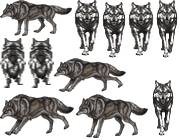
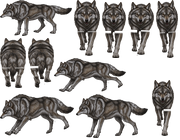
feat(wolf): rigged front/rear walk and attack frames from new HD views
Claude-Session: https://claude.ai/code/session_01DrFoPcc44FDsca7BfrWMBD

Changed region(s): [[0.3889, 0.0, 1.0, 0.4286], [0.0, 0.2571, 0.3056, 0.6286], [0.8333, 0.5714, 0.9722, 0.9714]]

diff --git a/tools/wolf_rig/build_fb_frames.py b/tools/wolf_rig/build_fb_frames.py
@@ -1,0 +1,129 @@
+"""Front/rear wolf frames: animate legs (vertical swing + perspective scale), body bob and sway."""
+import sys
+sys.path.insert(0, 'tools/wolf_rig')
+import numpy as np
+from PIL import Image, ImageDraw, ImageFilter
+import build_side_frames as B
+
+SRC = 'tools/wolf_rig/src/'
+R, HD = B.R, B.HD
+fullF = Image.open(SRC + 'front_full.png').convert('RGBA')
+fullR = Image.open(SRC + 'rear_full.png').convert('RGBA')
+SZ = fullF.size
+
+
+def mask(poly, blur=4):
+    m = Image.new('L', SZ, 0)
+    ImageDraw.Draw(m).polygon(poly, fill=255)
+    return m.filter(ImageFilter.GaussianBlur(blur))
+
+
+def cutlayer(full, m):
+    a = np.minimum(np.asarray(full)[:, :, 3], np.asarray(m))
+    out = full.copy(); out.putalpha(Image.fromarray(a.astype(np.uint8))); return out
+
+
+def rest(full, ms):
+    inv = np.ones(SZ[::-1])
+    for m in ms:
+        inv = np.minimum(inv, 1 - np.asarray(m) / 255.0)
+    a = (np.asarray(full)[:, :, 3] * inv).astype(np.uint8)
+    out = full.copy(); out.putalpha(Image.fromarray(a)); return out
+
+TOP = 700
+FRONT = {
+ 'L': [(0, TOP), (385, TOP), (385, 1010), (415, 1120), (415, 1300), (0, 1300)],
+ 'R': [(462, TOP), (900, TOP), (900, 1300), (415, 1300), (415, 1120), (462, 1010)],
+}
+REAR = {
+ 'L': [(0, 740), (385, 740), (385, 1300), (0, 1300)],
+ 'R': [(495, 740), (900, 740), (900, 1300), (495, 1300)],
+}
+PARTS = {}
+for name, full, polys in (('front', fullF, FRONT), ('rear', fullR, REAR)):
+    ms = {k: mask(p) for k, p in polys.items()}
+    PARTS[name] = (rest(full, ms.values()), {k: cutlayer(full, m) for k, m in ms.items()}, polys)
+
+
+def leg(layer, top, dy, sc):
+    bb = layer.getchannel('A').getbbox()
+    crop = layer.crop(bb)
+    h = max(int(crop.height * sc), 1)
+    crop = crop.resize((crop.width, h), Image.LANCZOS)
+    # soften the cut edge at the top where the leg blends into the body
+    a = np.asarray(crop.getchannel('A')).astype(np.float64)
+    f = np.clip(np.arange(h)[:, None] / 40.0, 0, 1)
+    crop.putalpha(Image.fromarray((a * f).astype(np.uint8)))
+    out = Image.new('RGBA', layer.size, (0, 0, 0, 0))
+    out.alpha_composite(crop, (bb[0], bb[1] + dy))
+    return out
+
+
+def render(view, dyL=0, scL=1.0, dyR=0, scR=1.0, bob=0, rot=0, grow=1.0):
+    base, legs, _ = PARTS[view]
+    c = Image.new('RGBA', (SZ[0] + 200, SZ[1] + 300), (0, 0, 0, 0))
+    ox, oy = 100, 150
+    c.alpha_composite(base, (ox, oy + bob))
+    for k, (dy, sc) in (('L', (dyL, scL)), ('R', (dyR, scR))):
+        c.alpha_composite(leg(legs[k], TOP, dy, sc), (ox, oy + bob))
+    if rot:
+        c = c.rotate(rot, resample=Image.BICUBIC, center=(ox + 450, oy + 900))
+    if grow != 1.0:
+        c = c.resize((int(c.width * grow), int(c.height * grow)), Image.LANCZOS)
+    return c
+
+# sheet -> frame -> (rect, view, kwargs)
+RECTS = {
+ '270': {1: (76, 2, 26, 52), 2: (104, 0, 22, 54), 3: (128, 0, 22, 56), 4: (152, 0, 22, 56),
+         5: (0, 46, 24, 46), 6: (26, 44, 24, 56), 7: (52, 44, 22, 52), 9: (152, 58, 22, 54)},
+ '271': {1: (74, 0, 26, 56), 2: (102, 2, 24, 56), 3: (128, 2, 26, 56), 4: (156, 0, 22, 58),
+         10: (152, 80, 22, 56), 5: (0, 38, 26, 50), 6: (28, 38, 26, 50)},
+}
+WALK_F = [dict(dyL=60, scL=1.10, dyR=-50, scR=0.88, bob=-10, rot=2),
+          dict(dyL=0, scL=1.0, dyR=0, scR=1.0, bob=25, rot=0),
+          dict(dyL=-50, scL=0.88, dyR=60, scR=1.10, bob=-10, rot=-2),
+          dict(dyL=0, scL=1.0, dyR=0, scR=1.0, bob=0, rot=0)]
+WALK_R = [dict(dyL=-45, scL=0.88, dyR=40, scR=1.06, bob=-8, rot=-2),
+          dict(dyL=0, scL=1.0, dyR=0, scR=1.0, bob=22, rot=0),
+          dict(dyL=40, scL=1.06, dyR=-45, scR=0.88, bob=-8, rot=2),
+          dict(dyL=0, scL=1.0, dyR=0, scR=1.0, bob=0, rot=0)]
+ATK_F = [dict(dyL=0, scL=0.96, dyR=0, scR=0.96, bob=45, rot=0),      # crouch
+         dict(dyL=40, scL=1.08, dyR=40, scR=1.08, bob=-30, rot=0),   # leap
+         dict(dyL=50, scL=1.10, dyR=20, scR=1.05, bob=-10, rot=-3),  # bite
+         dict(dyL=0, scL=1.0, dyR=0, scR=1.0, bob=15, rot=3),        # recoil
+         dict(dyL=-20, scL=0.94, dyR=30, scR=1.06, bob=0, rot=0)]
+ATK_R = [dict(dyL=0, scL=0.96, dyR=0, scR=0.96, bob=40, rot=0),
+         dict(dyL=40, scL=1.06, dyR=-35, scR=0.9, bob=-20, rot=2)]
+PLAN = {
+ '270': {1: ('front', WALK_F[0]), 2: ('front', WALK_F[1]), 3: ('front', WALK_F[2]), 4: ('front', WALK_F[3]),
+         5: ('rear', WALK_R[0]), 6: ('rear', WALK_R[1]), 7: ('rear', WALK_R[2]), 9: ('rear', WALK_R[3])},
+ '271': {1: ('front', ATK_F[0]), 2: ('front', ATK_F[1]), 3: ('front', ATK_F[2]), 4: ('front', ATK_F[3]),
+         10: ('front', ATK_F[4]), 5: ('rear', ATK_R[0]), 6: ('rear', ATK_R[1])},
+}
+
+
+def main():
+    cache = {}
+    for n, frames in PLAN.items():
+        o = Image.open(R + n + '.png').convert('RGBA')
+        o2 = o.resize((o.width * 2, o.height * 2), Image.NEAREST)
+        for k, (view, kw) in frames.items():
+            rect = RECTS[n][k]
+            cache[(n, k)] = (rect, B.fit_img(render(view, **kw), rect, o2))
+    for n in PLAN:
+        for suf in B.SUFFIXES:
+            path = f'{HD}{n}{suf}.png'
+            sheet = Image.open(path).convert('RGBA')
+            for (nn, k), (rect, fr) in cache.items():
+                if nn != n:
+                    continue
+                x, y, w, h = rect
+                t = B.tone(fr, *B.TONE[suf]) if suf else fr
+                sheet.paste(Image.new('RGBA', (w, h), (0, 0, 0, 0)), (x, y))
+                sheet.alpha_composite(t, (x, y))
+            sheet.save(path)
+            print('wrote', path)
+
+
+if __name__ == '__main__':
+    main()

diff --git a/tools/wolf_rig/build_side_frames.py b/tools/wolf_rig/build_side_frames.py
@@ -47,8 +47,11 @@ def tone(im, tint, darken):
 
 
 def frame(pose, bob, tail, tilt, rect, orig2x):
+    return fit_img(rig.render(pose, bob, tail, tilt), rect, orig2x)
+
+
+def fit_img(img, rect, orig2x):
     x, y, w, h = rect
-    img = rig.render(pose, bob, tail, tilt)
     bb = img.getchannel('A').point(lambda v: 255 if v > THR else 0).getbbox()
     img = img.crop(bb)
     oa = np.asarray(orig2x)[y:y + h, x:x + w, 3]
